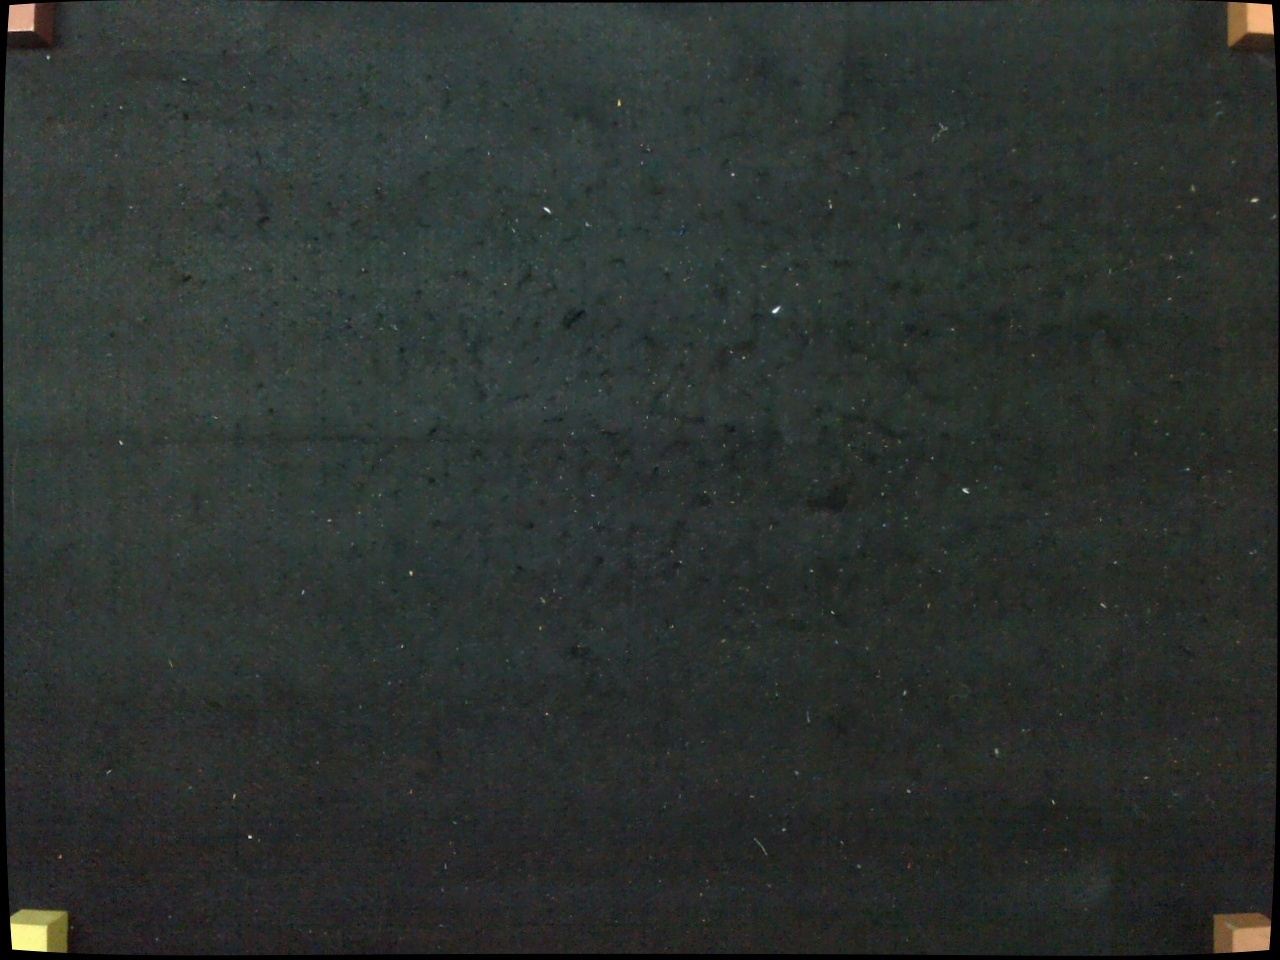
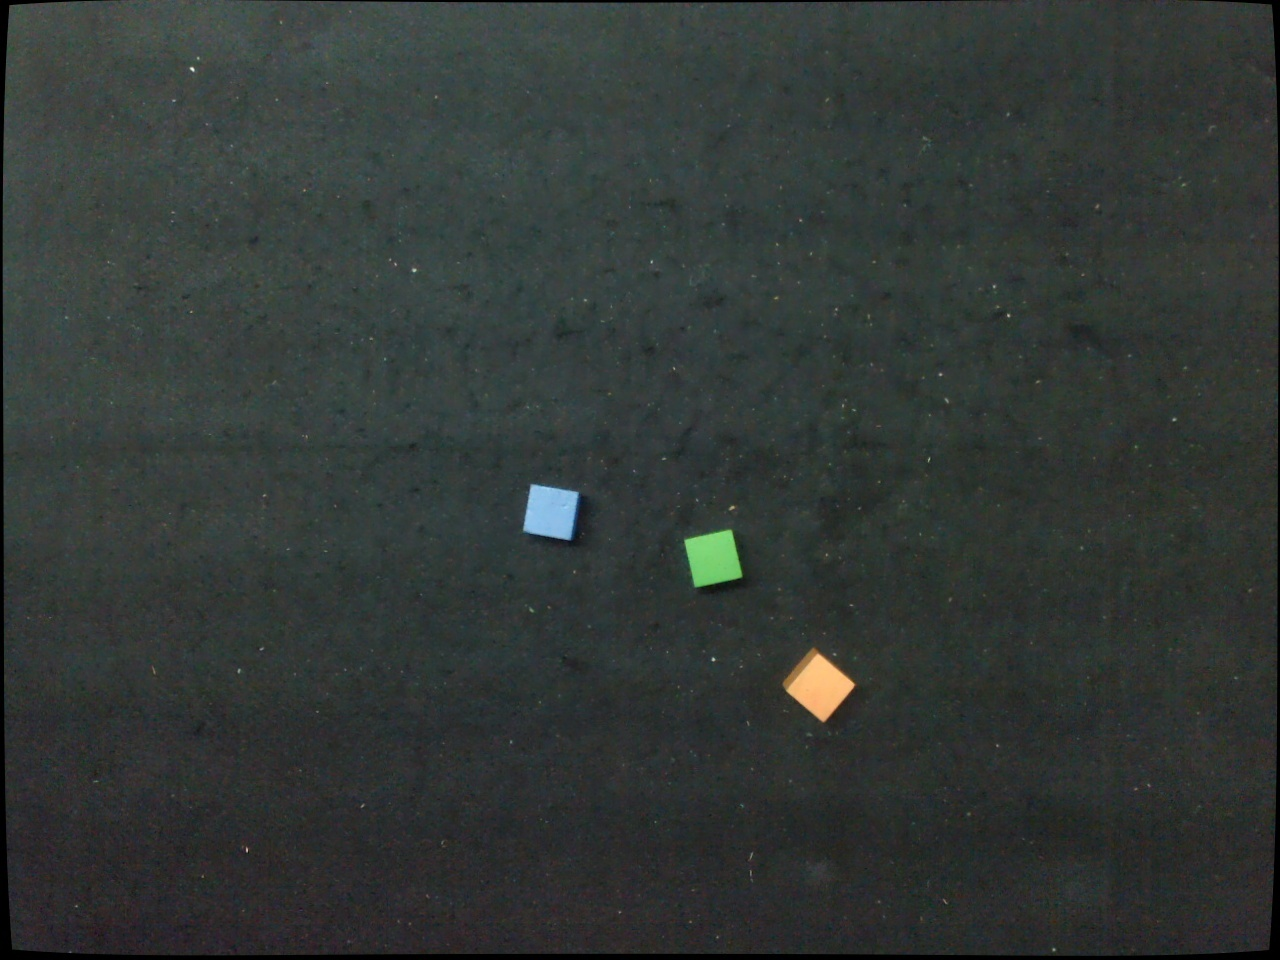
Added presumptive final src

diff --git a/src/send_script/send_script/image_sub.py b/src/send_script/send_script/image_sub.py
@@ -39,6 +39,7 @@ def DrawDebugMarker(frame, area, label, Cx, Cy, theta):
 
 def SendSetOrientationScript(x, y, z, theta):
     positionInfo = f"{x}, {y}, {z}, -180.00, 0.0, {135.0 + theta}"
+    print(positionInfo)
     outScript = f"PTP(\"CPP\",{positionInfo},100,200,0,false)"
     send_script(outScript)
 
@@ -52,6 +53,7 @@ class ImageSub(Node):
 
         bridge = CvBridge()
         inFrame = bridge.imgmsg_to_cv2(data)
+
         
         CalibrationMatrix = np.load("src/debug/CALIBRATION_MATRIX.npy")
 
@@ -59,14 +61,19 @@ class ImageSub(Node):
 
         inFrame_grayscale = cv2.cvtColor(inFrame, cv2.COLOR_BGR2GRAY)
         inFrame_blurred = cv2.GaussianBlur(inFrame_grayscale, (5, 5), 0)
-        _, inFrame_binary = cv2.threshold(inFrame_blurred, 140, 255, cv2.THRESH_BINARY)
-        
+        _, inFrame_binary = cv2.threshold(inFrame_blurred, 120, 255, cv2.THRESH_BINARY)
+        cv2.imwrite(f"src/debug/image_binary.jpg", inFrame_binary)
+
         contours = cv2.findContours(inFrame_binary, cv2.RETR_EXTERNAL, cv2.CHAIN_APPROX_SIMPLE)
         contours = contours[0] if len(contours) == 2 else contours[1]
 
+
         subtitle_texts = []
         outFrame = np.copy(inFrame)
-        for i in range(1, len(contours)):
+        towerX = None
+        towerY = None
+        block_index = 0
+        for i in range(len(contours)):
             rotrect = cv2.minAreaRect(contours[i])
                 
             area = rotrect[1][0] * rotrect[1][1]
@@ -74,11 +81,6 @@ class ImageSub(Node):
                 continue
 
             principal = rotrect[-1]
-            # if angle < -45:
-            #     angle = -(90 + angle)
-            # else:
-            #     angle = -angle
-            principal = np.deg2rad(principal)
 
             Cx, Cy = rotrect[0][0], rotrect[0][1]
 
@@ -90,11 +92,23 @@ class ImageSub(Node):
             xPP = np.clip(physicalPosition[0], -103, 680)
             yPP = np.clip(physicalPosition[1], -83, 704)
 
+            # xPP = xPP - math.cos(principal) * 4
+            # yPP = yPP - math.sin(principal) * 4
+
+            if towerX == None or towerY == None:
+                towerX = xPP
+                towerY = yPP
+
             set_io(0.0)
-            SendSetOrientationScript(xPP, yPP, 730)
+            SendSetOrientationScript(xPP, yPP, 250, -principal)
+            SendSetOrientationScript(xPP, yPP, 110, -principal)
             set_io(1.0)
-            SendSetOrientationScript(xPP, yPP, 710)
+            SendSetOrientationScript(xPP, yPP, 250, -principal)
+            SendSetOrientationScript(towerX, towerY, 250, 0)
+            SendSetOrientationScript(towerX, towerY, block_index * 25.4 + 115, 0)
             set_io(0.0)
+            SendSetOrientationScript(towerX, towerY, 250, 0)
+            block_index = block_index + 1
         
         cv2.imwrite(f"src/debug/image_annotated.jpg", outFrame)
 

diff --git a/src/send_script/send_script/test_read_file2.py b/src/send_script/send_script/test_read_file2.py
@@ -6,8 +6,10 @@ import os
 
 AREA_THRESHOLD = 100000
 
-outPixelPositions = np.empty((4, 3))
-outPhysicalPositions = np.array([[230.41, 704.27, 1.0], [680.93, 243, 1.0], [-103.44, 357.61, 1.0], [333, -83.4, 1.0]])
+outPixelPositions = np.empty((6, 3))
+# Blue -> Green -> Orange -> Yellow -> Red -> White
+outPhysicalPositions = np.array([[310.58, 234.06, 1.0], [400, 235, 1.0], [290, 125, 1.0], [130, 350, 1.0], [220, 442, 1.0], [250, 330, 1.0]])
+indexLUT = [2, 3, 0, 5, 1, 4]
 
 subtitle_texts = []
 def DrawDebugMarker(frame, area, label, Cx, Cy, theta):
@@ -28,9 +30,9 @@ def DrawDebugMarker(frame, area, label, Cx, Cy, theta):
     # Draw the object number next to the centroid
     cv2.putText(frame, str(label), (int(Cx) - 20, int(Cy) + 20), cv2.FONT_HERSHEY_SIMPLEX, 1, (255, 255, 0), 2)
     # Collect the information for the subtitle
-    subtitle_texts.append(f"Object {label}: Centroid: ({Cx:.2f}, {Cy:.2f}), Angle: {(theta * (180 / math.pi)):.2f} deg")
+    # subtitle_texts.append(f'Object {label}: Centroid: ({Cx:.2f}, {Cy:.2f}), Angle: {(theta * (180 / math.pi)):.2f} deg')
 
-inFrame = cv2.imread(f"debug/image.jpg")
+inFrame = cv2.imread('src/debug/image.jpg')
 
 inFrame_grayscale = cv2.cvtColor(inFrame, cv2.COLOR_BGR2GRAY)
 inFrame_blurred = cv2.GaussianBlur(inFrame_grayscale, (5, 5), 0)
@@ -42,7 +44,7 @@ contours = contours[0] if len(contours) == 2 else contours[1]
 subtitle_texts = []
 outFrame = np.copy(inFrame)
 calIndex = 0
-for i in range(1, len(contours)):   
+for i in range(0, len(contours)):   
     
     rotrect = cv2.minAreaRect(contours[i])
     
@@ -67,8 +69,13 @@ for i in range(1, len(contours)):
     # Draw Debug Info
     DrawDebugMarker(outFrame, 1000000, calIndex, rotrect[0][0], rotrect[0][1], angle)
 
-calibrationMatrix, residuals, rank, singularValues = np.linalg.lstsq(outPixelPositions, outPhysicalPositions)
-# np.save(f"debug/CALIBRATION_MATRIX", calibrationMatrix)
+outPhysicalPositionsCopy = np.zeros_like(outPhysicalPositions)
+for i in range(len(outPhysicalPositions)):
+    outPhysicalPositionsCopy[i] = outPhysicalPositions[indexLUT[i]]
+calibrationMatrix, residuals, rank, singularValues = np.linalg.lstsq(outPixelPositions, outPhysicalPositionsCopy)
 
-cv2.imshow("image", outFrame)
+print(residuals)
+np.save('src/debug/CALIBRATION_MATRIX', calibrationMatrix)
+
+cv2.imshow('image', outFrame)
 cv2.waitKey(0)

diff --git a/src/send_script/send_script/send_script.py b/src/send_script/send_script/send_script.py
@@ -54,6 +54,38 @@ def main(args=None):
     script1 = "PTP(\"CPP\"," + targetP1+",100,200,0,false)"
     send_script(script1)
 
+    # targetP1 = "230.00, 230, 110, -180.00, 0.0, 135.00"
+    # script1 = "PTP(\"CPP\"," + targetP1+",100,200,0,false)"
+    # send_script(script1)
+
+    # targetP1 = "230.00, 230, 730, -180.00, 0.0, 135.00"
+    # script1 = "PTP(\"CPP\"," + targetP1+",100,200,0,false)"
+    # send_script(script1)
+
+    # targetP1 = "100.00, 230, 730, -180.00, 0.0, 135.00"
+    # script1 = "PTP(\"CPP\"," + targetP1+",100,200,0,false)"
+    # send_script(script1)
+
+    # targetP1 = "100.00, 230, 110, -180.00, 0.0, 135.00"
+    # script1 = "PTP(\"CPP\"," + targetP1+",100,200,0,false)"
+    # send_script(script1)
+
+    # targetP1 = "100.00, 230, 730, -180.00, 0.0, 135.00"
+    # script1 = "PTP(\"CPP\"," + targetP1+",100,200,0,false)"
+    # send_script(script1)
+
+    # targetP1 = "230.00, 100, 730, -180.00, 0.0, 135.00"
+    # script1 = "PTP(\"CPP\"," + targetP1+",100,200,0,false)"
+    # send_script(script1)
+
+    # targetP1 = "230.00, 100, 110, -180.00, 0.0, 135.00"
+    # script1 = "PTP(\"CPP\"," + targetP1+",100,200,0,false)"
+    # send_script(script1)
+
+    # targetP1 = "230.00, 100, 730, -180.00, 0.0, 135.00"
+    # script1 = "PTP(\"CPP\"," + targetP1+",100,200,0,false)"
+    # send_script(script1)
+
     # # Z = 100 should be the table
     # # c is what we need to rotate
     # targetP1 = "230.00, 230, 101, -180.00, 0.0, 100.00"

diff --git a/src/send_script/send_script/test_read_file.py b/src/send_script/send_script/test_read_file.py
@@ -7,7 +7,7 @@ import os
 AREA_THRESHOLD = 100000
 
 outPixelPositions = np.empty((4, 3))
-outPhysicalPositions = np.array([[230.41, 704.27, 1.0], [680.93, 243, 1.0], [-103.44, 357.61, 1.0], [333, -83.4, 1.0]])
+outPhysicalPositions = np.array([[227.92, 693.22, 1.0], [677.43, 245.73, 1.0], [-102.37, 360.68, 1.0], [337.09, -91.91, 1.0]])
 
 subtitle_texts = []
 def DrawDebugMarker(frame, area, label, Cx, Cy, theta):
@@ -40,7 +40,7 @@ labelCount, labels = cv2.connectedComponents(inFrame_binary)
 subtitle_texts = []
 outFrame = np.copy(inFrame)
 calIndex = 0
-for label in range(1, labelCount):
+for label in range(1, labelCount): # Start from 1 to skip the background (label 0)
     mask = (labels == label).astype("uint8") * 255
     
     M = cv2.moments(mask)
@@ -61,7 +61,7 @@ for label in range(1, labelCount):
     DrawDebugMarker(outFrame, area, label, Cx, Cy, principal)
 
 calibrationMatrix, residuals, rank, singularValues = np.linalg.lstsq(outPixelPositions, outPhysicalPositions)
-np.save(f"debug/CALIBRATION_MATRIX", calibrationMatrix)
+np.save('debug/CALIBRATION_MATRIX', calibrationMatrix)
 
-cv2.imshow("image", outFrame)
-cv2.waitKey(0)
+# cv2.imshow("image", outFrame)
+# cv2.waitKey(0)
